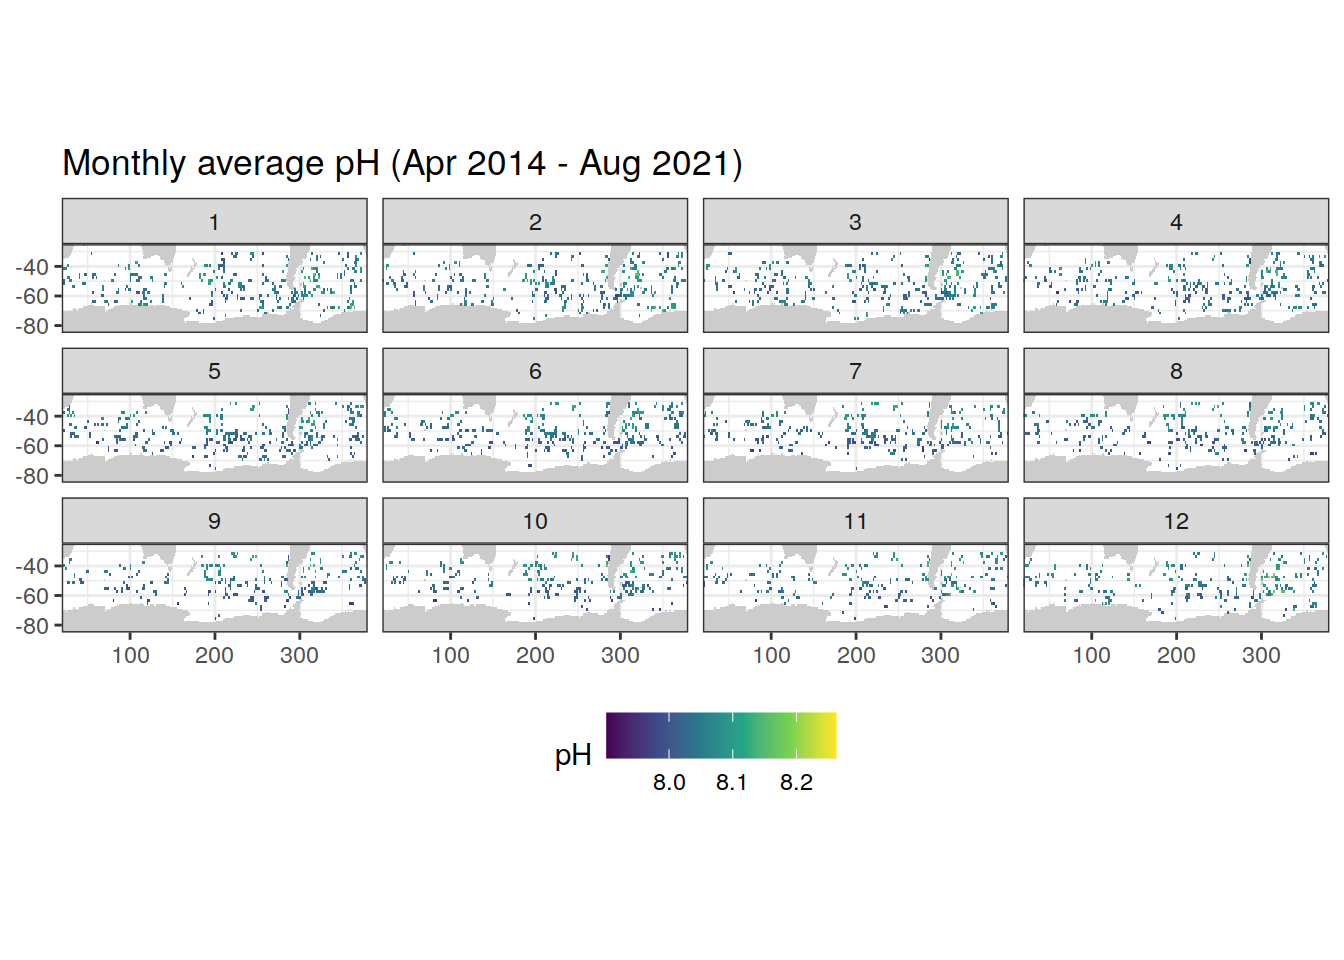
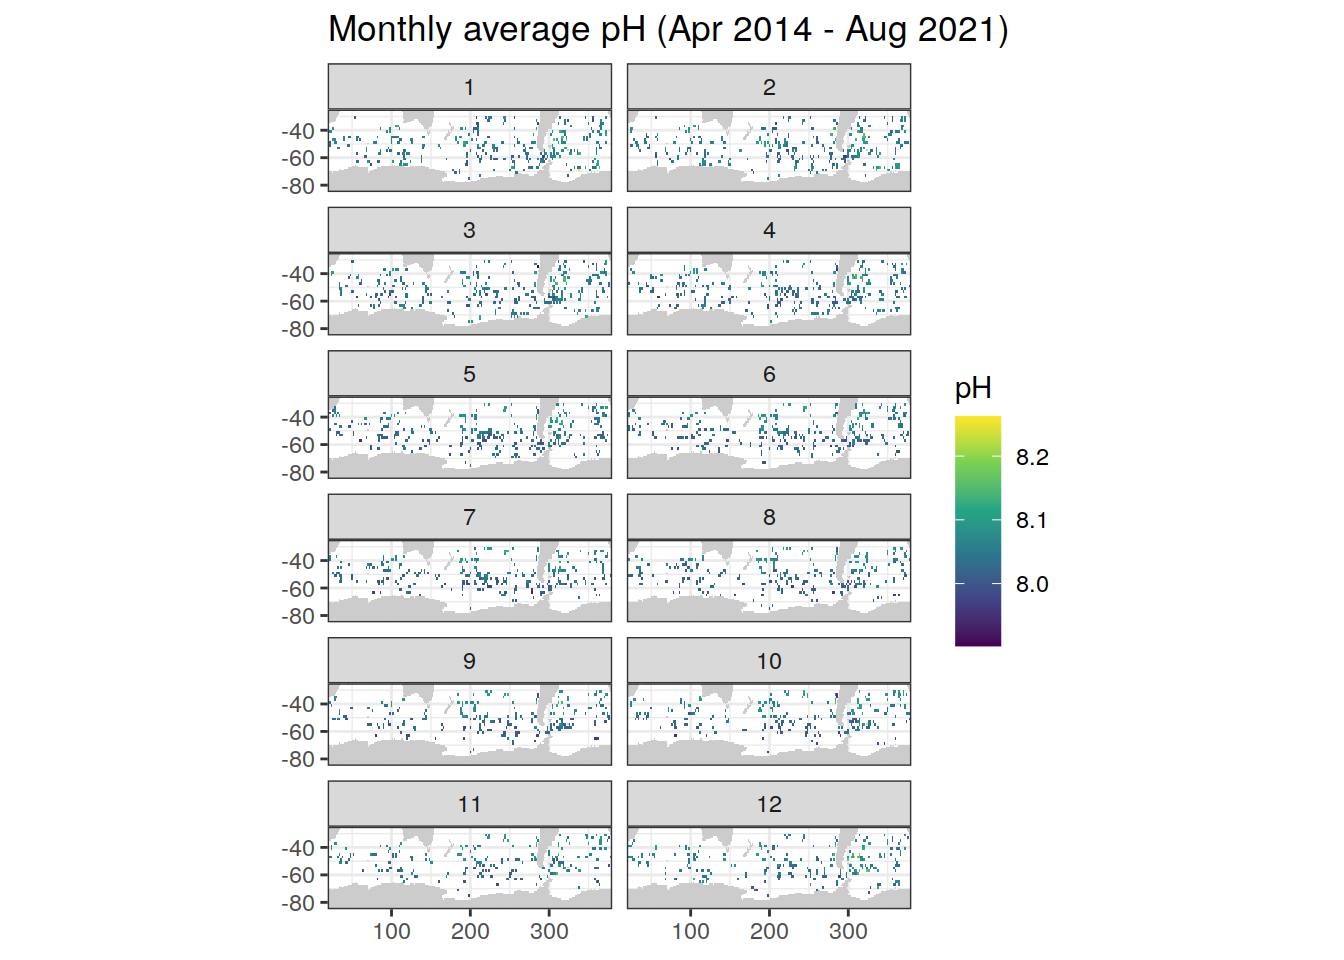
Build site.

diff --git a/docs/ph_data.html b/docs/ph_data.html
@@ -408,7 +408,7 @@ div.tocify {
 
 <h1 class="title toc-ignore">BGC-Argo pH Data</h1>
 <h4 class="author">Pasqualina Vonlanthen &amp; Jens Daniel Müller</h4>
-<h4 class="date">19 November, 2021</h4>
+<h4 class="date">22 November, 2021</h4>
 
 </div>
 
@@ -433,7 +433,7 @@ div.tocify {
 <div class="tab-content">
 <div id="summary" class="tab-pane fade in active">
 <p>
-<strong>Last updated:</strong> 2021-11-19
+<strong>Last updated:</strong> 2021-11-22
 </p>
 <p>
 <strong>Checks:</strong> <span class="glyphicon glyphicon-ok text-success" aria-hidden="true"></span> 7 <span class="glyphicon glyphicon-exclamation-sign text-danger" aria-hidden="true"></span> 0
@@ -524,16 +524,16 @@ This reproducible <a href="http://rmarkdown.rstudio.com">R Markdown</a> analysis
 <div class="panel panel-default">
 <div class="panel-heading">
 <p class="panel-title">
-<a data-toggle="collapse" data-parent="#workflowr-checks" href="#strongRepositoryversionstrongahrefhttpsgithubcomjensdanielmuellerbgcargorargodatatreefd6ef5af4e358f9e43102c52b24ea63d9e5377e8targetblankfd6ef5aa"> <span class="glyphicon glyphicon-ok text-success" aria-hidden="true"></span> <strong>Repository version:</strong> <a href="https://github.com/jens-daniel-mueller/bgc_argo_r_argodata/tree/fd6ef5af4e358f9e43102c52b24ea63d9e5377e8" target="_blank">fd6ef5a</a> </a>
+<a data-toggle="collapse" data-parent="#workflowr-checks" href="#strongRepositoryversionstrongahrefhttpsgithubcomjensdanielmuellerbgcargorargodatatree2c5f2e5b4ea7fe8a5152374c6638d741645e3203targetblank2c5f2e5a"> <span class="glyphicon glyphicon-ok text-success" aria-hidden="true"></span> <strong>Repository version:</strong> <a href="https://github.com/jens-daniel-mueller/bgc_argo_r_argodata/tree/2c5f2e5b4ea7fe8a5152374c6638d741645e3203" target="_blank">2c5f2e5</a> </a>
 </p>
 </div>
[2 lines of base64/hex data omitted]
 <div class="panel-body">
 <p>
 Great! You are using Git for version control. Tracking code development and connecting the code version to the results is critical for reproducibility.
 </p>
 <p>
-The results in this page were generated with repository version <a href="https://github.com/jens-daniel-mueller/bgc_argo_r_argodata/tree/fd6ef5af4e358f9e43102c52b24ea63d9e5377e8" target="_blank">fd6ef5a</a>. See the <em>Past versions</em> tab to see a history of the changes made to the R Markdown and HTML files.
+The results in this page were generated with repository version <a href="https://github.com/jens-daniel-mueller/bgc_argo_r_argodata/tree/2c5f2e5b4ea7fe8a5152374c6638d741645e3203" target="_blank">2c5f2e5</a>. See the <em>Past versions</em> tab to see a history of the changes made to the R Markdown and HTML files.
 </p>
 <p>
 Note that you need to be careful to ensure that all relevant files for the analysis have been committed to Git prior to generating the results (you can use <code>wflow_publish</code> or <code>wflow_git_commit</code>). workflowr only checks the R Markdown file, but you know if there are other scripts or data files that it depends on. Below is the status of the Git repository when the results were generated:
@@ -586,6 +586,57 @@ Message
 </tr>
 </thead>
 <tbody>
+<tr>
+<td>
+Rmd
+</td>
+<td>
+<a href="https://github.com/jens-daniel-mueller/bgc_argo_r_argodata/blob/2c5f2e5b4ea7fe8a5152374c6638d741645e3203/analysis/ph_data.Rmd" target="_blank">2c5f2e5</a>
+</td>
+<td>
+pasqualina-vonlanthendinenna
+</td>
+<td>
+2021-11-22
+</td>
+<td>
+corrected offset plot
+</td>
+</tr>
+<tr>
+<td>
+Rmd
+</td>
+<td>
+<a href="https://github.com/jens-daniel-mueller/bgc_argo_r_argodata/blob/fb2fb748d8f6d8cfa656b98cdf2d589b4f8447f6/analysis/ph_data.Rmd" target="_blank">fb2fb74</a>
+</td>
+<td>
+pasqualina-vonlanthendinenna
+</td>
+<td>
+2021-11-19
+</td>
+<td>
+corrected offset plot
+</td>
+</tr>
+<tr>
+<td>
+html
+</td>
+<td>
+<a href="https://rawcdn.githack.com/jens-daniel-mueller/bgc_argo_r_argodata/13df4f5581ebe9c6525ab80418d05f9cb9c1ec85/docs/ph_data.html" target="_blank">13df4f5</a>
+</td>
+<td>
+pasqualina-vonlanthendinenna
+</td>
+<td>
+2021-11-19
+</td>
+<td>
+Build site.
+</td>
+</tr>
 <tr>
 <td>
 Rmd
@@ -948,14 +999,7 @@ path_argo_preprocessed &lt;- paste0(path_argo, &quot;/preprocessed_bgc_data&quot
 # load in surface pH data 
 ph_surface_2x2 &lt;- read_rds(file = paste0(path_argo_preprocessed, &#39;/ph_surface_2x2.rds&#39;))
 
-ph_surface_1x1 &lt;- read_rds(file = paste0(path_argo_preprocessed, &quot;/ph_surface_1x1.rds&quot;))
-
-# ph_merge &lt;-
-#   read_rds(file = paste0(path_argo_preprocessed, &quot;/bgc_merge.rds&quot;)) %&gt;% 
-#   select(
-#     -c(doxy_adjusted:nitrate_adjusted_error),
-#     -c(profile_doxy_qc, profile_nitrate_qc)
-#   )</code></pre>
+ph_surface_1x1 &lt;- read_rds(file = paste0(path_argo_preprocessed, &quot;/ph_surface_1x1.rds&quot;))</code></pre>
 <div id="southern-ocean-surface-ph" class="section level3">
 <h3>Southern Ocean surface pH</h3>
 <p>The focus here is on surface pH (in the top 20 m of the watercolumn), in the region south of 30ºS</p>
@@ -972,25 +1016,25 @@ ph_surface_SO &lt;- ph_surface_2x2 %&gt;%
 # max(ph_surface_SO$date)</code></pre>
 <div id="data-offset-with-depth" class="section level4">
 <h4>Data offset with depth</h4>
-<p>Plot the difference between in-situ observed pH and the mean surface pH (20m) for each depth level</p>
-<pre class="r"><code>ph_SO &lt;- ph_surface_SO %&gt;%
-  group_by(month) %&gt;%
-  summarise(ph_month_ave = mean(ph_in_situ_total_adjusted))   # mean pH in top 20 m for each month
+<p>Plot the difference between in-situ observed pH and the profile-mean surface pH for the upper 20 m</p>
+<pre class="r"><code># calculate the mean pH for each profile 
+mean_profile_ph &lt;- ph_surface_SO %&gt;% 
+  group_by(float_serial_no, cycle_number) %&gt;% 
+  mutate(mean_prof_ph = mean(ph_in_situ_total_adjusted), 
+         .before = depth) %&gt;% 
+  ungroup() %&gt;% 
+  mutate(offset = ph_in_situ_total_adjusted-mean_prof_ph,   
+         .after = mean_prof_ph) # subtract the mean profile pH from the measured in situ pH
 
-ph_SO = full_join(ph_SO, ph_surface_SO, by = &#39;month&#39;) %&gt;%
-  mutate(offset = ph_in_situ_total_adjusted-ph_month_ave, 
-         .after = ph_month_ave) # subtract the surface mean from the in-situ pH, for each month
-
-ph_SO %&gt;%
+mean_profile_ph %&gt;%
   ggplot()+
-  geom_jitter(aes(x = offset, y = depth, col = as.character(year)), size = 0.3, pch = 19) +
+  geom_point(aes(x = offset, y = depth, col = as.character(year)), size = 0.3, pch = 19) +
   scale_y_reverse()+
-  geom_vline(xintercept = 0, col = &#39;red&#39;, size = 1.5)+
-  facet_wrap(~month)+
+  geom_vline(xintercept = 0, col = &#39;red&#39;, size = 0.6)+
   labs(x = &#39;offset (pH units)&#39;,
        y = &#39;depth (m)&#39;,
        col = &#39;year&#39;,
-       title = &#39;in situ pH - mean pH&#39;)</code></pre>
+       title = &#39;in situ pH - mean profile pH&#39;)</code></pre>
 <p><img src="figure/ph_data.Rmd/SO_offset_from_the_mean-1.png" width="672" style="display: block; margin: auto;" /></p>
 <p>
 <button type="button" class="btn btn-default btn-xs btn-workflowr btn-workflowr-fig" data-toggle="collapse" data-target="#fig-SO_offset_from_the_mean-1">
@@ -1014,6 +1058,17 @@ Date
 </tr>
 </thead>
 <tbody>
+<tr>
+<td>
+<a href="https://github.com/jens-daniel-mueller/bgc_argo_r_argodata/blob/13df4f5581ebe9c6525ab80418d05f9cb9c1ec85/docs/figure/ph_data.Rmd/SO_offset_from_the_mean-1.png" target="_blank">13df4f5</a>
+</td>
+<td>
+pasqualina-vonlanthendinenna
+</td>
+<td>
+2021-11-19
+</td>
+</tr>
 <tr>
 <td>
 <a href="https://github.com/jens-daniel-mueller/bgc_argo_r_argodata/blob/578ae8c3d35ad02e6c511846ece974d1aeed570c/docs/figure/ph_data.Rmd/SO_offset_from_the_mean-1.png" target="_blank">578ae8c</a>
@@ -1054,8 +1109,8 @@ map +
        y = &#39;lat&#39;,
        fill = &#39;pH&#39;,
        title = &#39;Monthly average pH (Apr 2014 - Aug 2021)&#39;) +
-  theme(legend.position = &#39;bottom&#39;) +
-  facet_wrap(~month)</code></pre>
+  theme(legend.position = &#39;right&#39;) +
+  facet_wrap(~month, ncol = 2)</code></pre>
 <pre><code>Warning: Raster pixels are placed at uneven vertical intervals and will be
 shifted. Consider using geom_tile() instead.</code></pre>
 <pre><code>Warning: Removed 153708 rows containing missing values (geom_raster).</code></pre>
@@ -1146,77 +1201,7 @@ Assuming `crs = 4326` in stat_spatial_rect()
 Assuming `crs = 4326` in stat_spatial_rect()
 Assuming `crs = 4326` in stat_spatial_rect()
 Assuming `crs = 4326` in stat_spatial_rect()</code></pre>
-<p><img src="figure/ph_data.Rmd/using_ggOceanMap-1.png" width="672" style="display: block; margin: auto;" /></p>
-<p>
-<button type="button" class="btn btn-default btn-xs btn-workflowr btn-workflowr-fig" data-toggle="collapse" data-target="#fig-using_ggOceanMap-1">
-Past versions of using_ggOceanMap-1.png
-</button>
-</p>
-<div id="fig-using_ggOceanMap-1" class="collapse">
-<div class="table-responsive">
-<table class="table table-condensed table-hover">
-<thead>
-<tr>
-<th>
-Version
-</th>
-<th>
-Author
-</th>
-<th>
-Date
-</th>
-</tr>
-</thead>
-<tbody>
-<tr>
-<td>
-<a href="https://github.com/jens-daniel-mueller/bgc_argo_r_argodata/blob/ab706491022684c49392c552f038e4e76651d461/docs/figure/ph_data.Rmd/using_ggOceanMap-1.png" target="_blank">ab70649</a>
-</td>
-<td>
-pasqualina-vonlanthendinenna
-</td>
-<td>
-2021-11-19
-</td>
-</tr>
-<tr>
-<td>
-<a href="https://github.com/jens-daniel-mueller/bgc_argo_r_argodata/blob/982492848629b2e50227d795a54d4077c10ec169/docs/figure/ph_data.Rmd/using_ggOceanMap-1.png" target="_blank">9824928</a>
-</td>
-<td>
-pasqualina-vonlanthendinenna
-</td>
-<td>
-2021-11-16
-</td>
-</tr>
-<tr>
-<td>
-<a href="https://github.com/jens-daniel-mueller/bgc_argo_r_argodata/blob/b6a26a1e405e6cfce6d6b87febb0f1b07efbd493/docs/figure/ph_data.Rmd/using_ggOceanMap-1.png" target="_blank">b6a26a1</a>
-</td>
-<td>
-pasqualina-vonlanthendinenna
-</td>
-<td>
-2021-11-16
-</td>
-</tr>
-<tr>
-<td>
-<a href="https://github.com/jens-daniel-mueller/bgc_argo_r_argodata/blob/0dce5547398310ec35b036d6fb4adfbf8bdad790/docs/figure/ph_data.Rmd/using_ggOceanMap-1.png" target="_blank">0dce554</a>
-</td>
-<td>
-pasqualina-vonlanthendinenna
-</td>
-<td>
-2021-11-15
-</td>
-</tr>
-</tbody>
-</table>
-</div>
-</div>
+<p><img src="figure/ph_data.Rmd/using_ggOceanMaps-1.png" width="672" style="display: block; margin: auto;" /></p>
 </div>
 <div id="monthly-timeseries" class="section level4">
 <h4>Monthly timeseries</h4>
